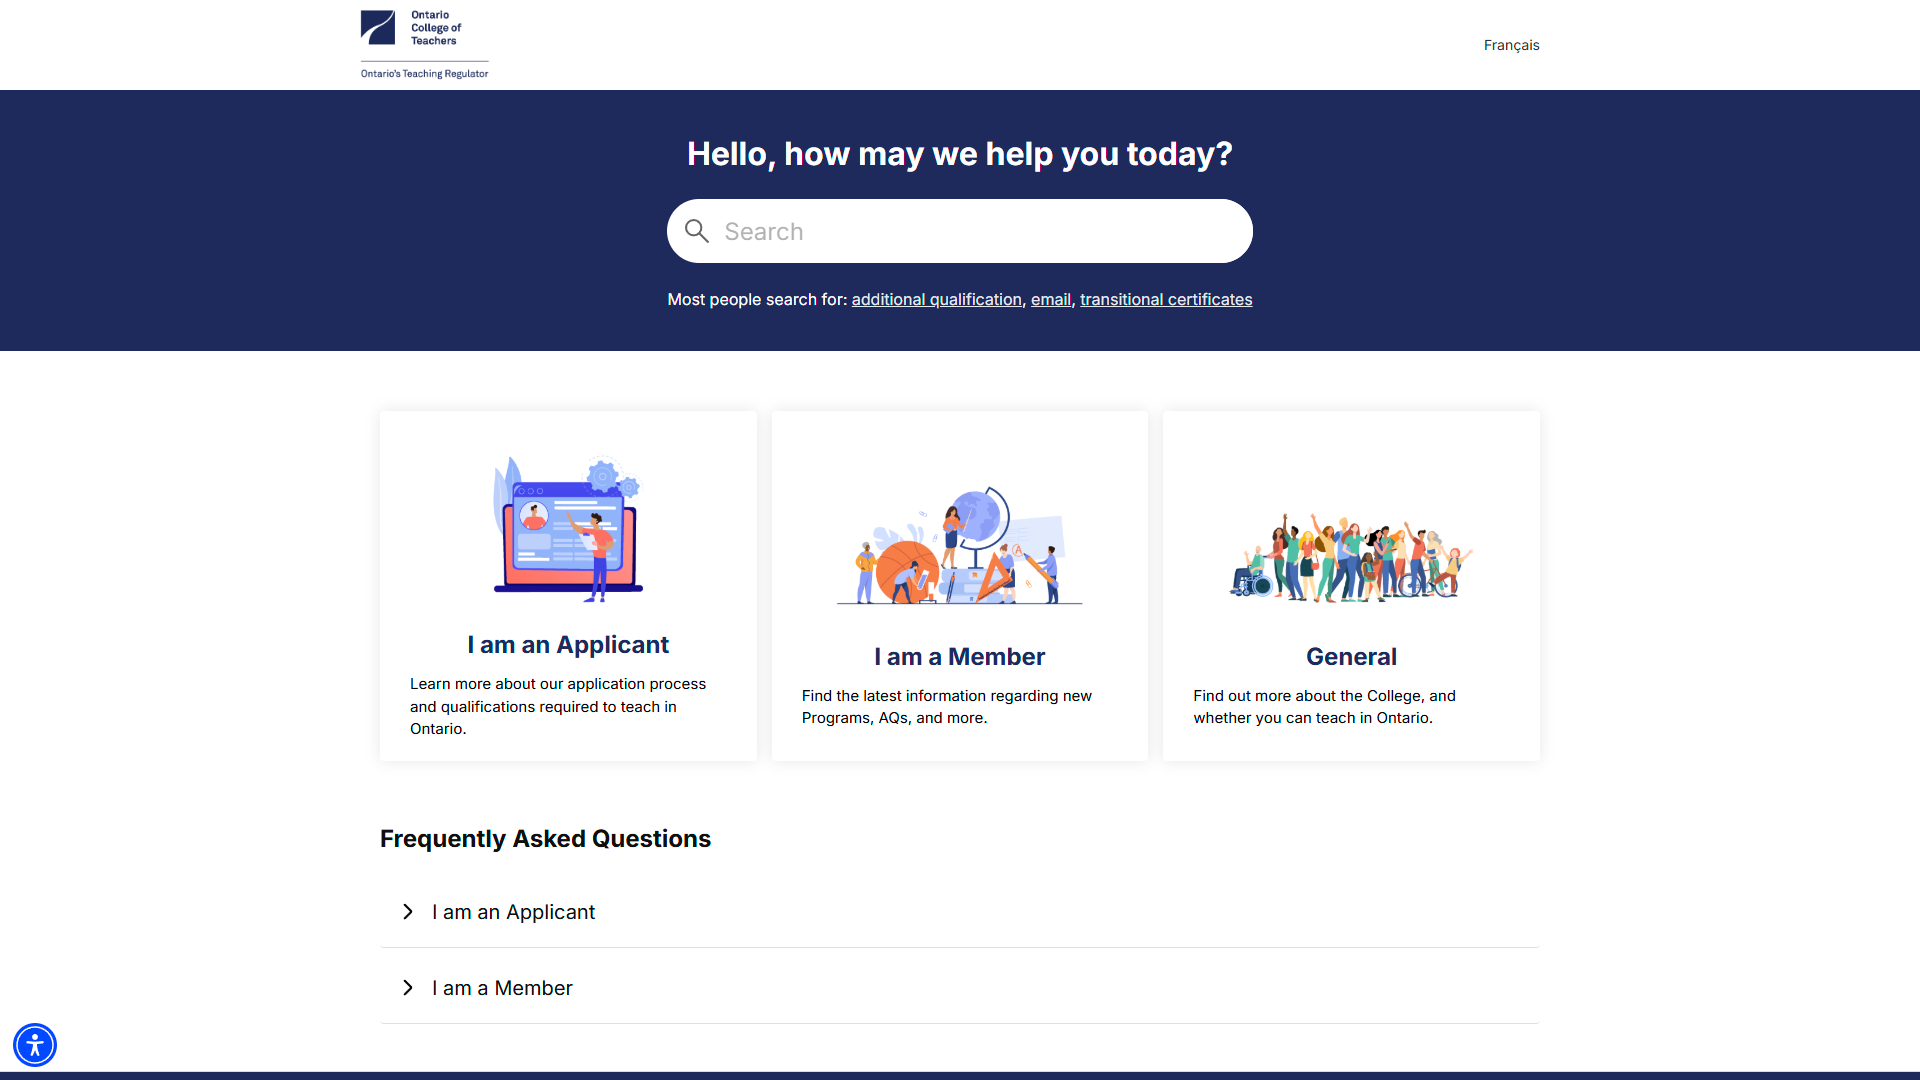
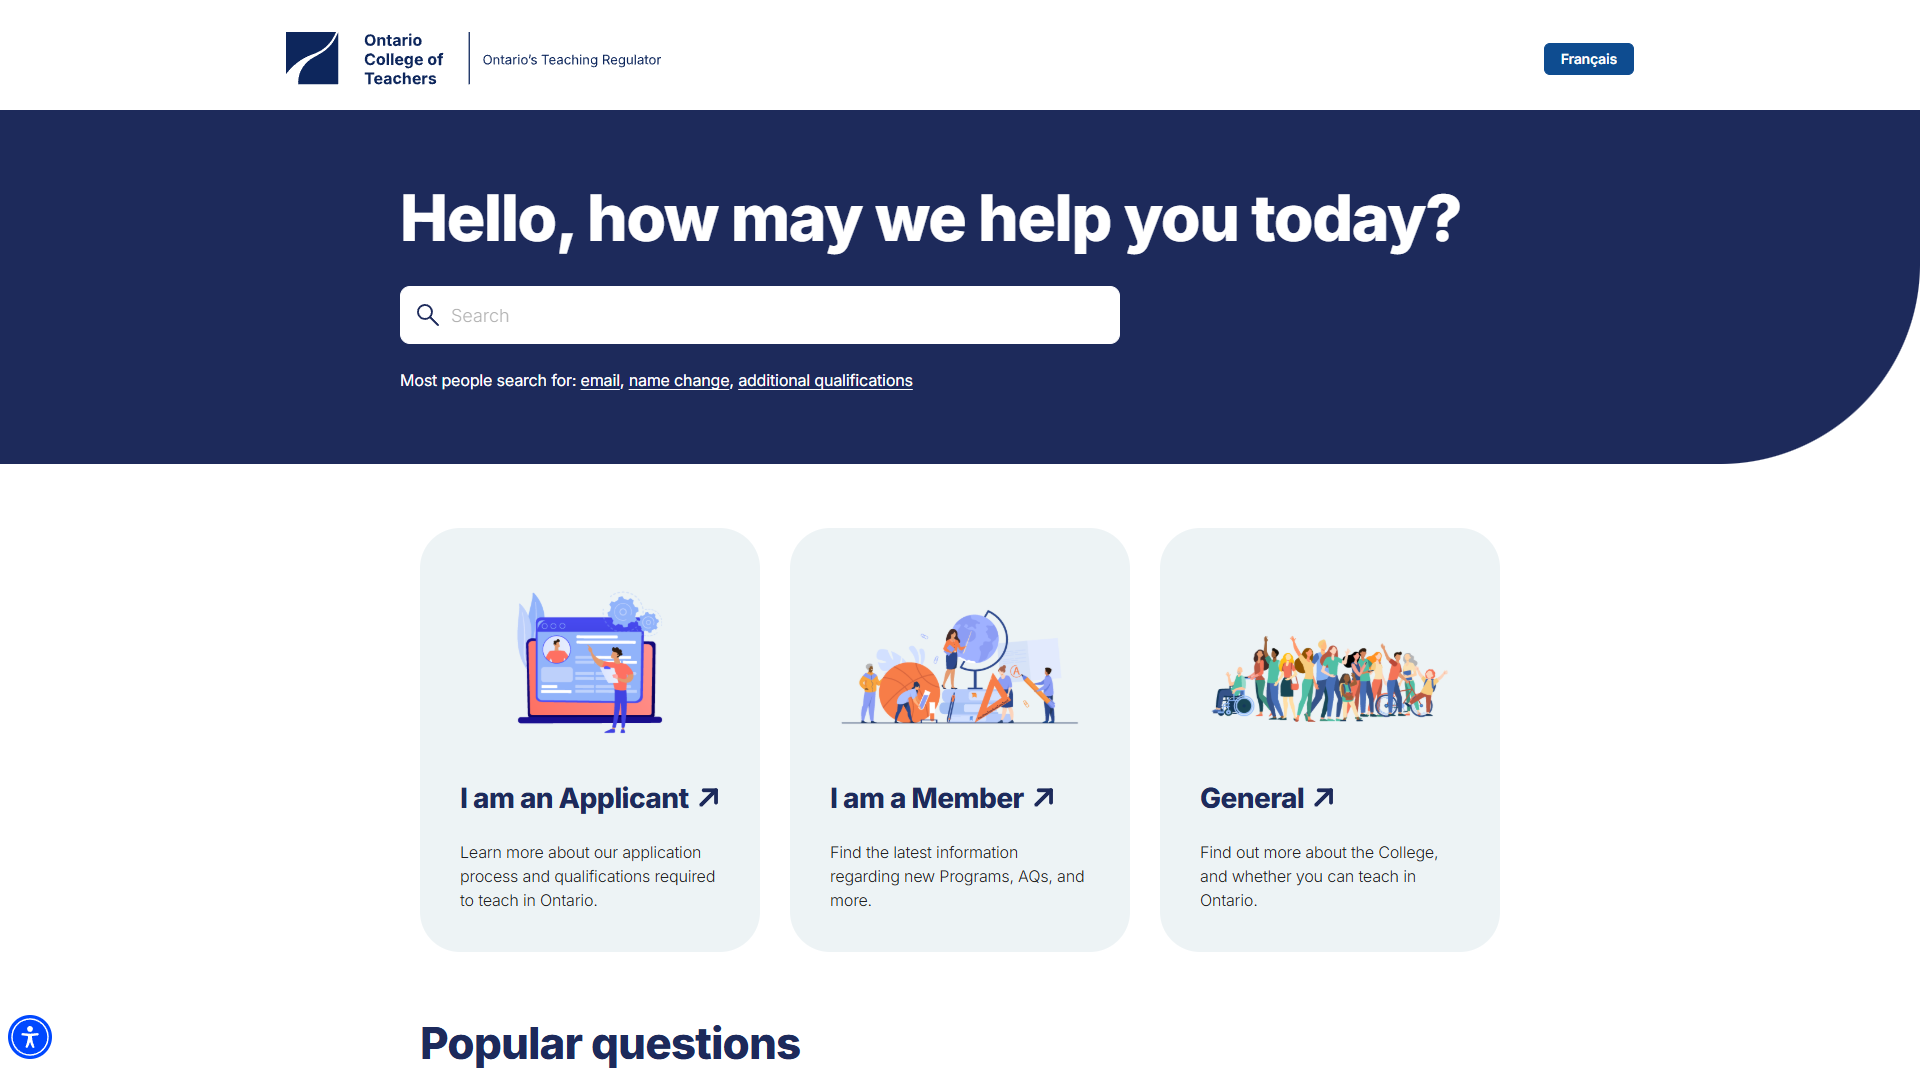
Hero headline + bar comparison, centred nav, grouped footer, card dates
- Hero: "Is your website losing you customers?" with a plain sub that
  leads into the scan box. Stats strip is now one metric on one scale
  (Google mobile score /100): two bars, local average 60 vs mine 95+;
  the other findings ride in a sentence. SCAN_STATS -> SCAN_RESULTS +
  MY_MOBILE_SCORE (same figures).
- Header: three-column grid, links centred, CTA right (mobile unchanged).
- Footer: links grouped into Services / Areas / Pixelboost, contact
  under the logo; groups sit side by side on phones.
- Blog cards show the original publish date (sorted by it); the
  "Updated" date stays on the post page and in dateModified. Real dates
  only - no backdating.
- Bing Webmaster "title too short": /about, /blog, /contact get
  descriptive titles (44-54 chars with suffix), short breadcrumb names.
- OCT FAQ portfolio screenshots refreshed (1920x1080 / 1206x2622).
- AODA post FAQ: "Does Ontario require WCAG 2.1 or 2.2?" (still 2.0 AA,
  per ontario.ca) - surfaced by Bing query data.

diff --git a/src/consts.ts b/src/consts.ts
@@ -16,16 +16,16 @@ export const SITE_DESCRIPTION =
 // Toronto, Oshawa, and Whitby (July 2026). These are genuine figures — refresh
 // them from a new scan run rather than fabricating. The hero shows them as the
 // backdrop to "every site I build ships at 95+".
-export interface ScanStat {
-  value: string; // the number, e.g. "89%"
-  unit?: string; // optional smaller suffix, e.g. "/100"
-  label: string; // what it measures, e.g. "score under 90 on mobile"
-}
+//
+// The hero compares ONE metric on ONE scale (Google mobile score out of 100):
+// the local average vs. mine, as two bars. The other findings are supporting
+// facts in a sentence, so the strip reads at a glance instead of mixing units.
+export const SCAN_RESULTS = {
+  sampleSize: 476,
+  avgMobileScore: 60, // average Google mobile score, out of 100
+  under50: "1 in 3", // share scoring under 50 on mobile
+  noAnalytics: "34%", // share with no analytics at all
+};
 
-export const SCAN_SAMPLE_SIZE = 476;
-
-export const SCAN_STATS: ScanStat[] = [
-  { value: "1 in 3", label: "score under 50 on mobile" },
-  { value: "60", unit: "/100", label: "average mobile score" },
-  { value: "34%", label: "have no analytics at all" },
-];
+/** What every site I build ships at (Google mobile score, out of 100). */
+export const MY_MOBILE_SCORE = 95;

diff --git a/src/content/blog/web-accessibility-small-business-ontario.md b/src/content/blog/web-accessibility-small-business-ontario.md
@@ -11,6 +11,8 @@ faq:
     a: "For the website content standard specifically, no. The WCAG requirement applies to organizations with 50 or more employees. But if you have 20 or more employees you must still file an accessibility compliance report, and accessibility barriers cost you customers regardless of the law."
   - q: "What WCAG level does AODA require?"
     a: "WCAG 2.0 Level AA, for organizations that are in scope (public sector and businesses with 50+ employees). Building to the newer WCAG 2.1 AA automatically covers 2.0 AA, so it's the safer standard to aim for and future-proofs you as coverage broadens."
+  - q: "Does Ontario require WCAG 2.1 or 2.2 for AODA?"
+    a: "No. The AODA still references WCAG 2.0 Level AA, for public sector organizations and businesses with 50 or more employees. Newer versions like WCAG 2.1 and 2.2 include everything in 2.0 AA, so building to a newer version still meets the AODA standard, and it covers you if Ontario updates the requirement."
   - q: "When is the AODA accessibility compliance report due?"
     a: "Businesses and non-profits with 20 or more employees must file an accessibility compliance report with the Government of Ontario by December 31, 2026, and every three years after that. This is separate from the website WCAG standard."
   - q: "Can you be fined for an inaccessible website in Ontario?"
